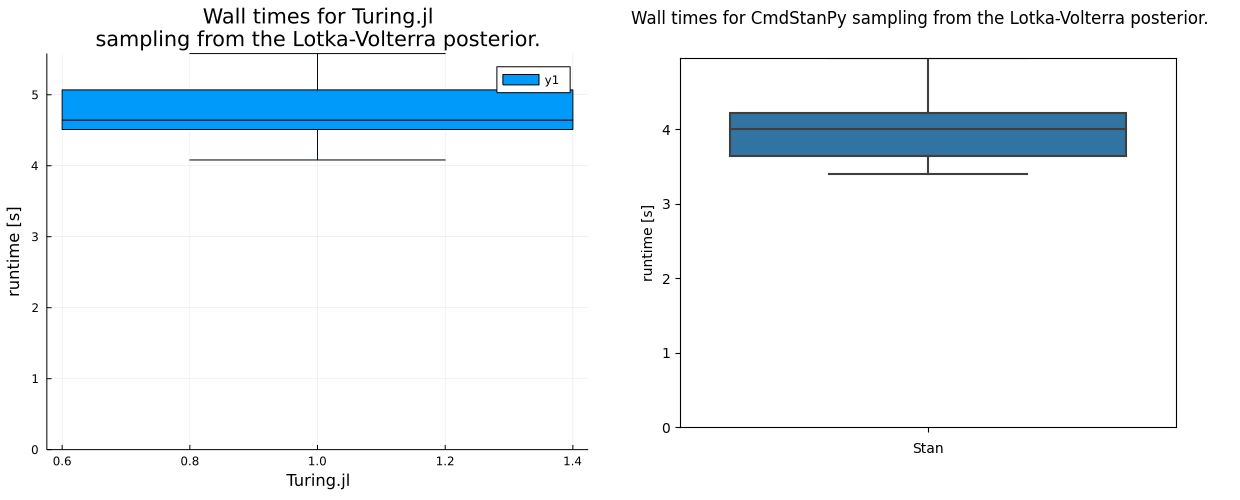
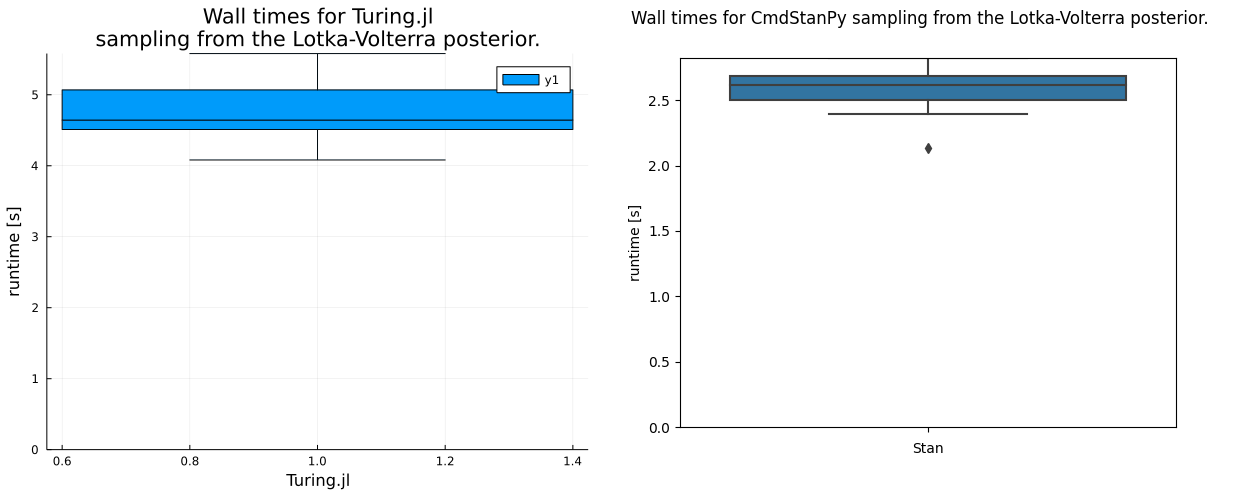
fixed Stan doing more warmup than Julia

diff --git a/py/lotka.py b/py/lotka.py
@@ -12,7 +12,7 @@ print("RUNNING STAN BENCHMARK")
 for i in range(no_repetitions):
     print(f'ITERATION {i}')
     start = time.perf_counter()
-    model.sample(data="data/lotka.json", adapt_delta=.65, chains=1, show_progress=False)
+    model.sample(data="data/lotka.json", adapt_delta=.65, chains=1, show_progress=False, iter_sampling=500)
     runtimes[i] = time.perf_counter() - start
 print("RUNTIMES:")
 print(runtimes)
